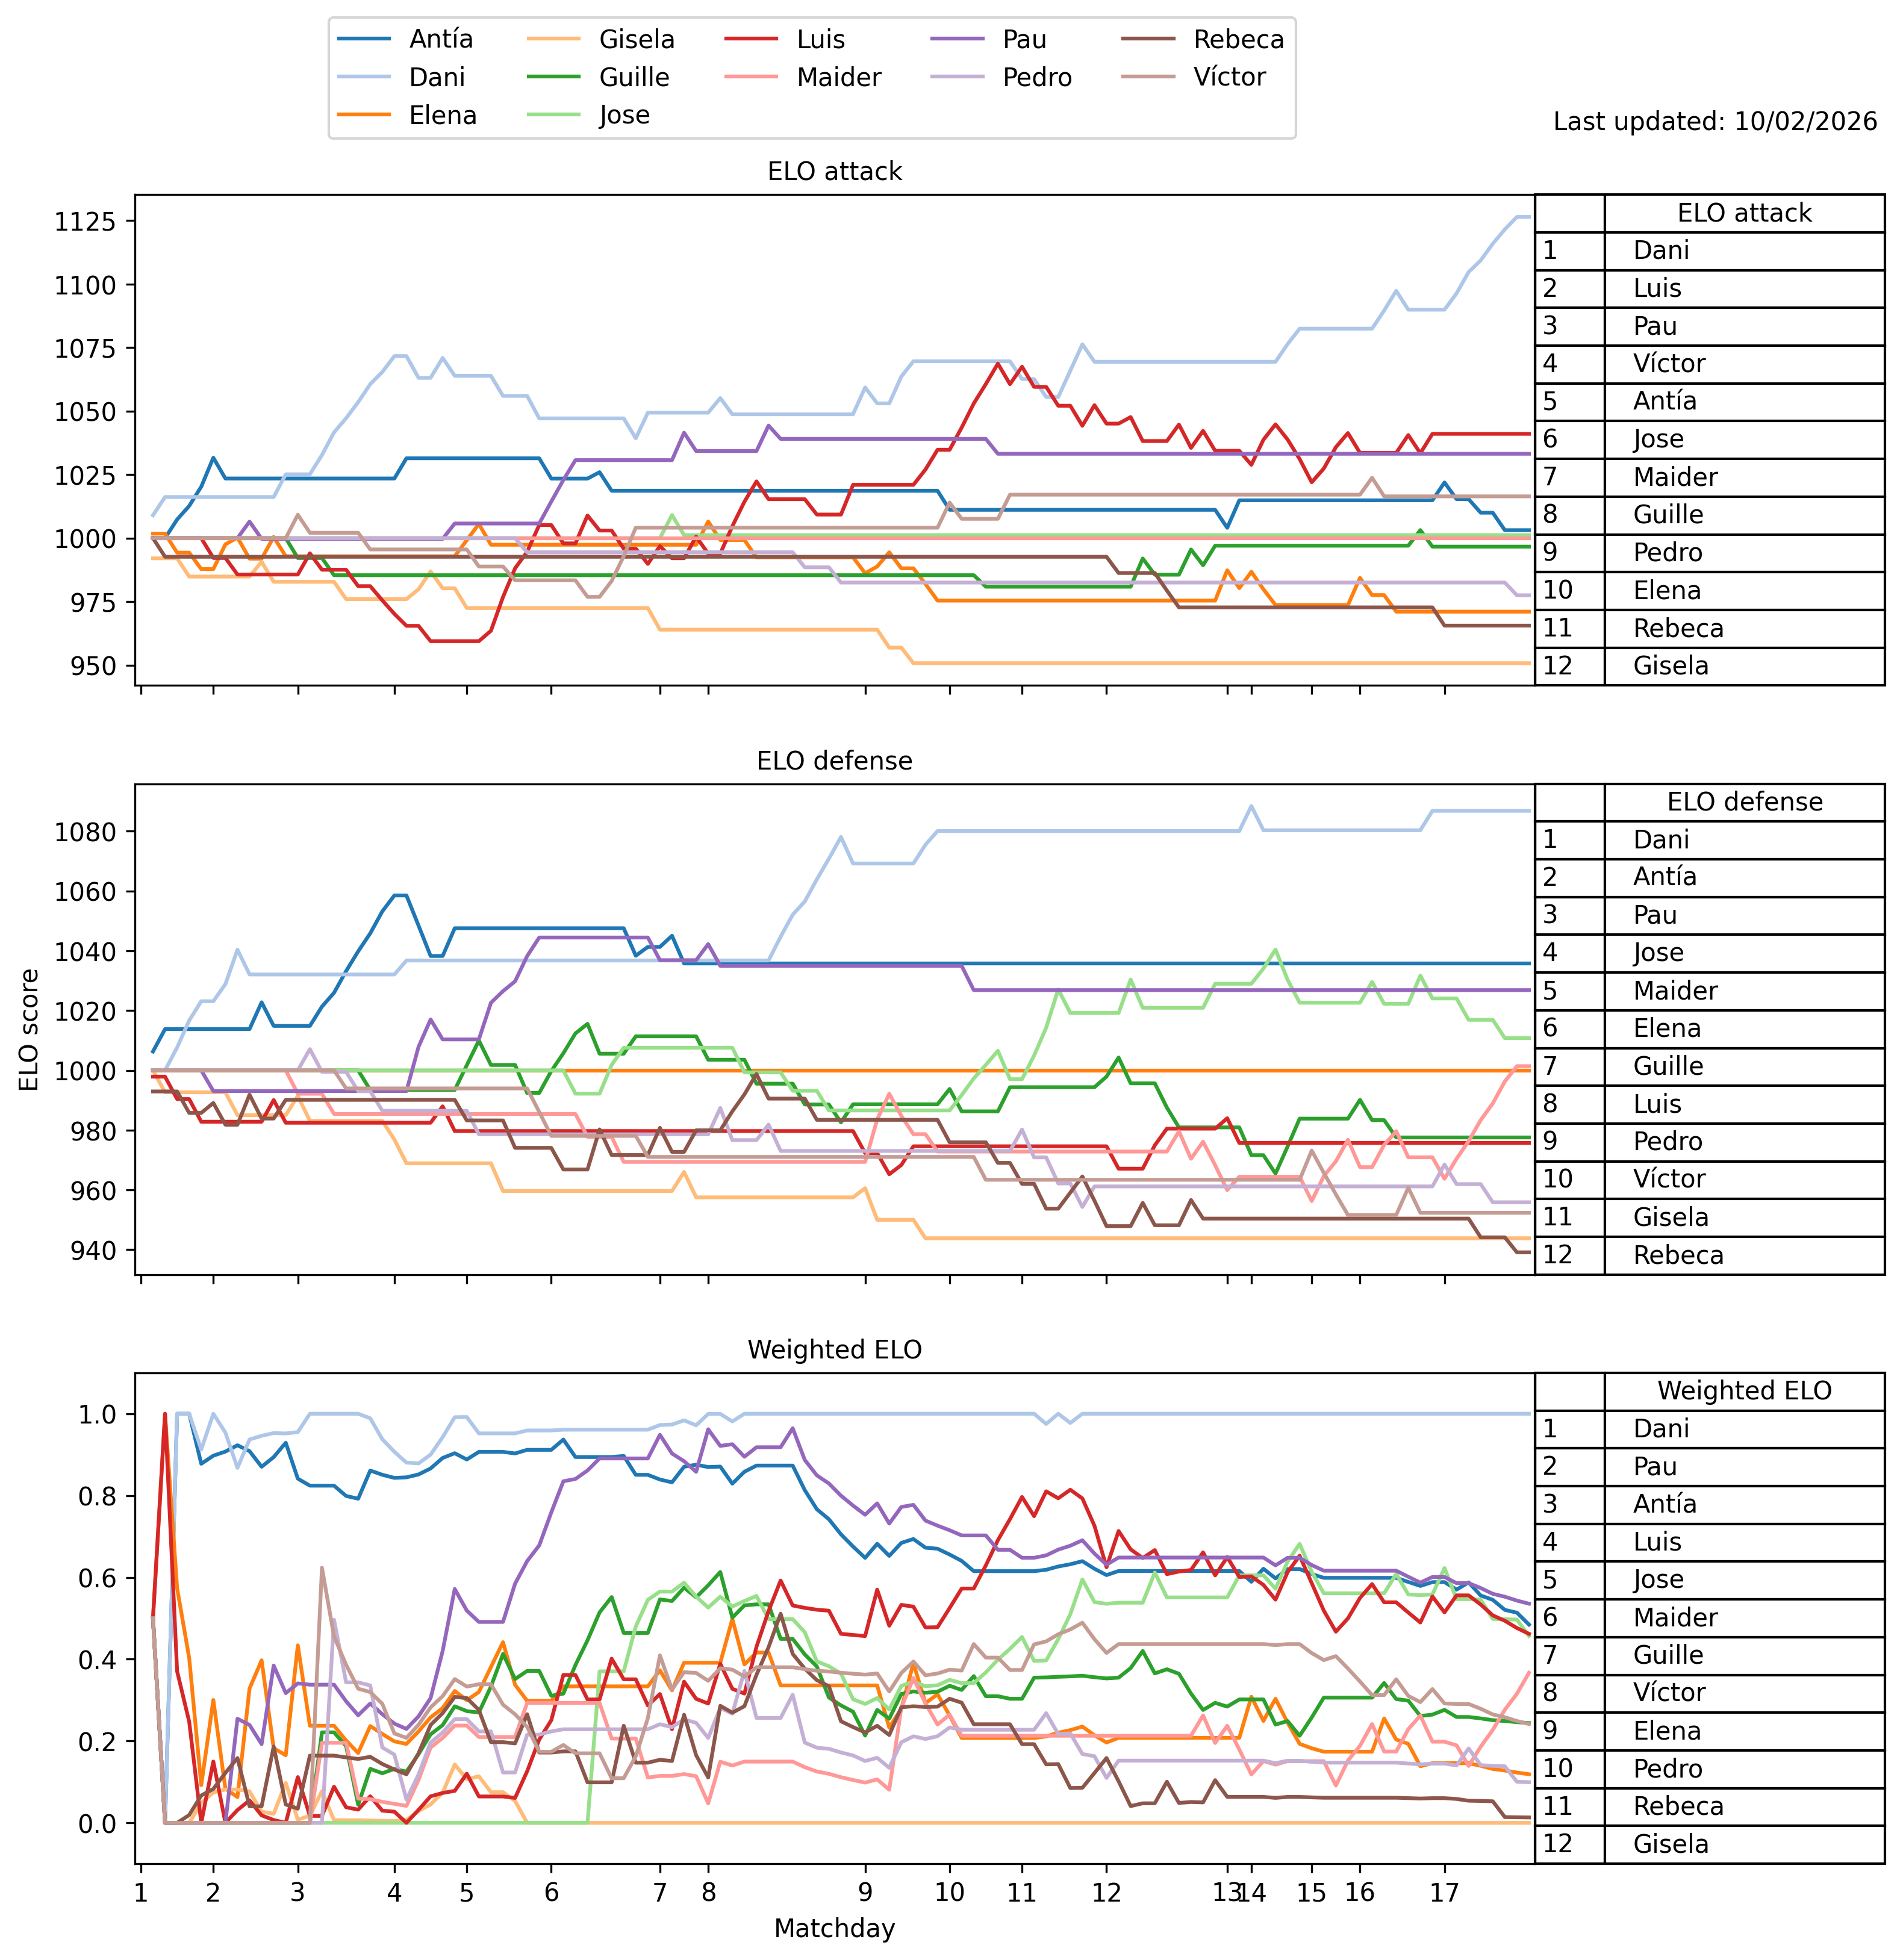
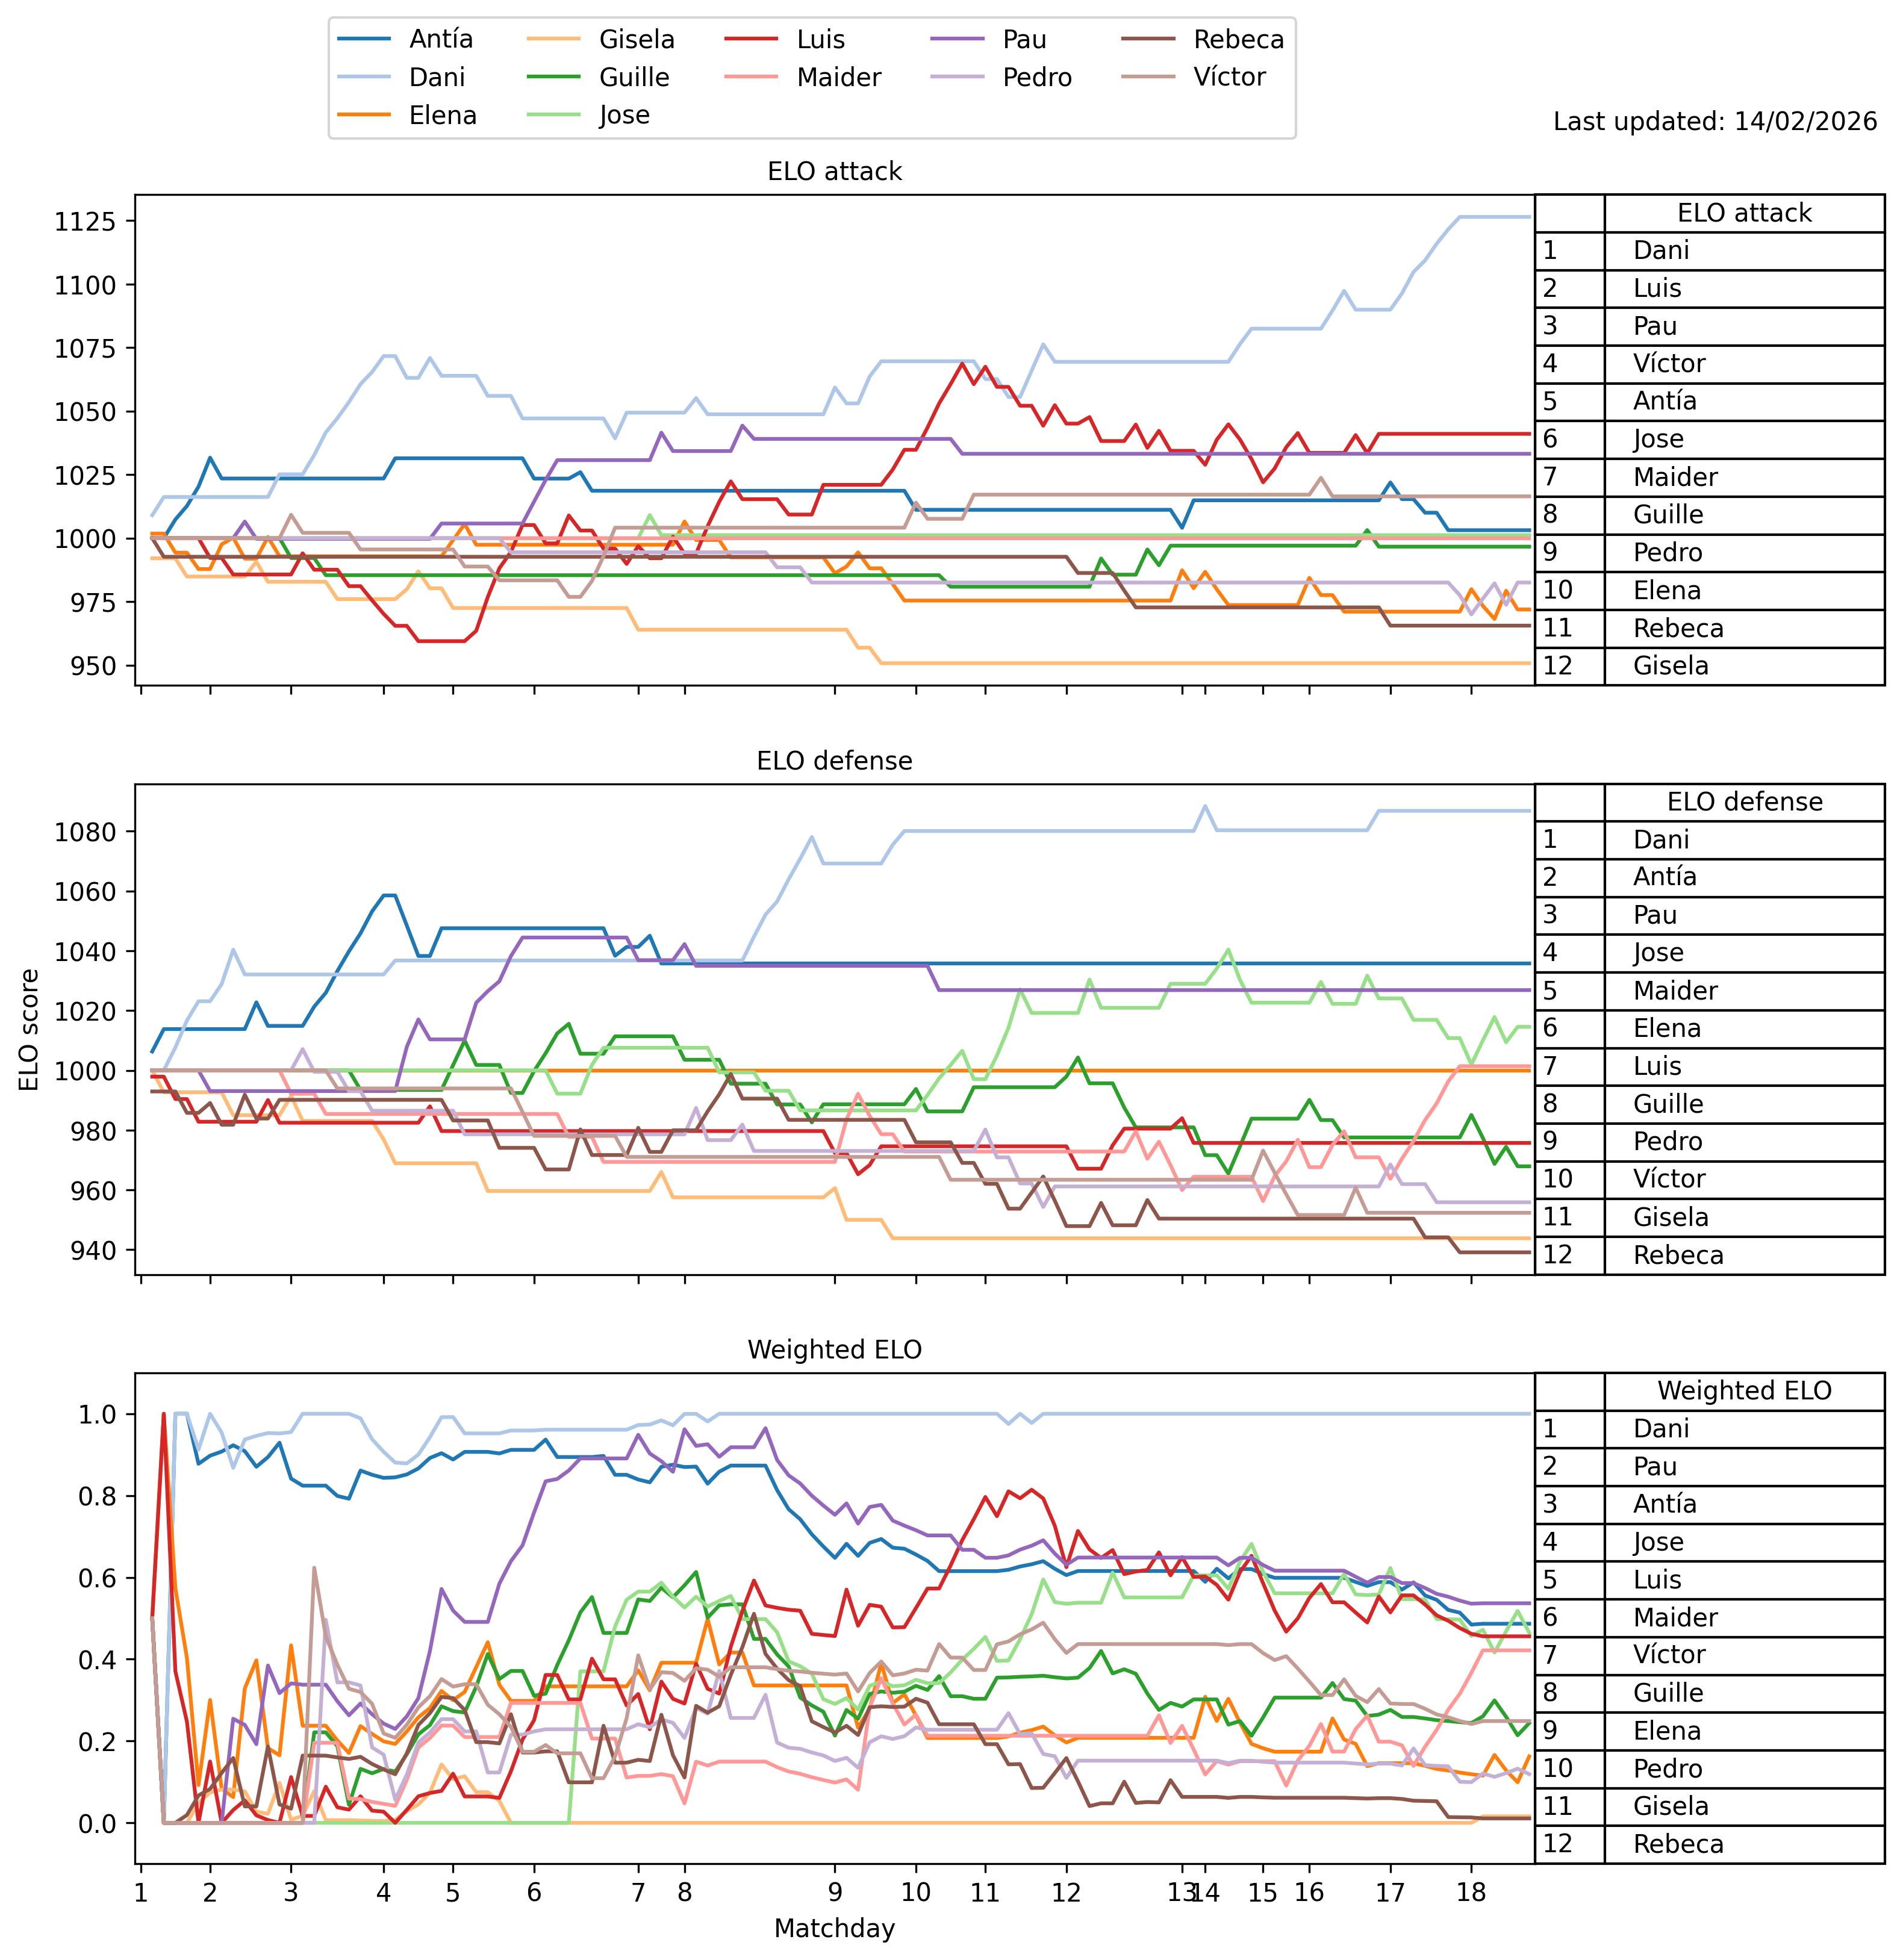
Updated to Matchday 18

diff --git a/results/winplayed_stats.html b/results/winplayed_stats.html
@@ -1,74 +1,74 @@
 <style type="text/css">
 </style>
-<table id="T_b47fa">
-  <caption>Games won / Games played (Matchday 115)</caption>
+<table id="T_42523">
+  <caption>Games won / Games played (Matchday 120)</caption>
   <thead>
     <tr>
       <th class="blank level0" >&nbsp;</th>
-      <th id="T_b47fa_level0_col0" class="col_heading level0 col0" >0</th>
-      <th id="T_b47fa_level0_col1" class="col_heading level0 col1" >1</th>
+      <th id="T_42523_level0_col0" class="col_heading level0 col0" >0</th>
+      <th id="T_42523_level0_col1" class="col_heading level0 col1" >1</th>
     </tr>
   </thead>
   <tbody>
     <tr>
-      <th id="T_b47fa_level0_row0" class="row_heading level0 row0" >1</th>
-      <td id="T_b47fa_row0_col0" class="data row0 col0" >Dani</td>
-      <td id="T_b47fa_row0_col1" class="data row0 col1" >0.76</td>
+      <th id="T_42523_level0_row0" class="row_heading level0 row0" >1</th>
+      <td id="T_42523_row0_col0" class="data row0 col0" >Dani</td>
+      <td id="T_42523_row0_col1" class="data row0 col1" >0.76</td>
     </tr>
     <tr>
-      <th id="T_b47fa_level0_row1" class="row_heading level0 row1" >2</th>
-      <td id="T_b47fa_row1_col0" class="data row1 col0" >Pau</td>
-      <td id="T_b47fa_row1_col1" class="data row1 col1" >0.62</td>
+      <th id="T_42523_level0_row1" class="row_heading level0 row1" >2</th>
+      <td id="T_42523_row1_col0" class="data row1 col0" >Pau</td>
+      <td id="T_42523_row1_col1" class="data row1 col1" >0.62</td>
     </tr>
     <tr>
-      <th id="T_b47fa_level0_row2" class="row_heading level0 row2" >3</th>
-      <td id="T_b47fa_row2_col0" class="data row2 col0" >Antía</td>
-      <td id="T_b47fa_row2_col1" class="data row2 col1" >0.62</td>
+      <th id="T_42523_level0_row2" class="row_heading level0 row2" >3</th>
+      <td id="T_42523_row2_col0" class="data row2 col0" >Antía</td>
+      <td id="T_42523_row2_col1" class="data row2 col1" >0.62</td>
     </tr>
     <tr>
-      <th id="T_b47fa_level0_row3" class="row_heading level0 row3" >4</th>
-      <td id="T_b47fa_row3_col0" class="data row3 col0" >Maider</td>
-      <td id="T_b47fa_row3_col1" class="data row3 col1" >0.53</td>
+      <th id="T_42523_level0_row3" class="row_heading level0 row3" >4</th>
+      <td id="T_42523_row3_col0" class="data row3 col0" >Jose</td>
+      <td id="T_42523_row3_col1" class="data row3 col1" >0.54</td>
     </tr>
     <tr>
-      <th id="T_b47fa_level0_row4" class="row_heading level0 row4" >5</th>
-      <td id="T_b47fa_row4_col0" class="data row4 col0" >Jose</td>
-      <td id="T_b47fa_row4_col1" class="data row4 col1" >0.53</td>
+      <th id="T_42523_level0_row4" class="row_heading level0 row4" >5</th>
+      <td id="T_42523_row4_col0" class="data row4 col0" >Maider</td>
+      <td id="T_42523_row4_col1" class="data row4 col1" >0.53</td>
     </tr>
     <tr>
-      <th id="T_b47fa_level0_row5" class="row_heading level0 row5" >6</th>
-      <td id="T_b47fa_row5_col0" class="data row5 col0" >Luis</td>
-      <td id="T_b47fa_row5_col1" class="data row5 col1" >0.5</td>
+      <th id="T_42523_level0_row5" class="row_heading level0 row5" >6</th>
+      <td id="T_42523_row5_col0" class="data row5 col0" >Luis</td>
+      <td id="T_42523_row5_col1" class="data row5 col1" >0.5</td>
     </tr>
     <tr>
-      <th id="T_b47fa_level0_row6" class="row_heading level0 row6" >7</th>
-      <td id="T_b47fa_row6_col0" class="data row6 col0" >Guille</td>
-      <td id="T_b47fa_row6_col1" class="data row6 col1" >0.46</td>
+      <th id="T_42523_level0_row6" class="row_heading level0 row6" >7</th>
+      <td id="T_42523_row6_col0" class="data row6 col0" >Guille</td>
+      <td id="T_42523_row6_col1" class="data row6 col1" >0.46</td>
     </tr>
     <tr>
-      <th id="T_b47fa_level0_row7" class="row_heading level0 row7" >8</th>
-      <td id="T_b47fa_row7_col0" class="data row7 col0" >Elena</td>
-      <td id="T_b47fa_row7_col1" class="data row7 col1" >0.41</td>
+      <th id="T_42523_level0_row7" class="row_heading level0 row7" >8</th>
+      <td id="T_42523_row7_col0" class="data row7 col0" >Elena</td>
+      <td id="T_42523_row7_col1" class="data row7 col1" >0.41</td>
     </tr>
     <tr>
-      <th id="T_b47fa_level0_row8" class="row_heading level0 row8" >9</th>
-      <td id="T_b47fa_row8_col0" class="data row8 col0" >Víctor</td>
-      <td id="T_b47fa_row8_col1" class="data row8 col1" >0.36</td>
+      <th id="T_42523_level0_row8" class="row_heading level0 row8" >9</th>
+      <td id="T_42523_row8_col0" class="data row8 col0" >Víctor</td>
+      <td id="T_42523_row8_col1" class="data row8 col1" >0.36</td>
     </tr>
     <tr>
-      <th id="T_b47fa_level0_row9" class="row_heading level0 row9" >10</th>
-      <td id="T_b47fa_row9_col0" class="data row9 col0" >Rebeca</td>
-      <td id="T_b47fa_row9_col1" class="data row9 col1" >0.33</td>
+      <th id="T_42523_level0_row9" class="row_heading level0 row9" >10</th>
+      <td id="T_42523_row9_col0" class="data row9 col0" >Pedro</td>
+      <td id="T_42523_row9_col1" class="data row9 col1" >0.35</td>
     </tr>
     <tr>
-      <th id="T_b47fa_level0_row10" class="row_heading level0 row10" >11</th>
-      <td id="T_b47fa_row10_col0" class="data row10 col0" >Pedro</td>
-      <td id="T_b47fa_row10_col1" class="data row10 col1" >0.29</td>
+      <th id="T_42523_level0_row10" class="row_heading level0 row10" >11</th>
+      <td id="T_42523_row10_col0" class="data row10 col0" >Rebeca</td>
+      <td id="T_42523_row10_col1" class="data row10 col1" >0.33</td>
     </tr>
     <tr>
-      <th id="T_b47fa_level0_row11" class="row_heading level0 row11" >12</th>
-      <td id="T_b47fa_row11_col0" class="data row11 col0" >Gisela</td>
-      <td id="T_b47fa_row11_col1" class="data row11 col1" >0.25</td>
+      <th id="T_42523_level0_row11" class="row_heading level0 row11" >12</th>
+      <td id="T_42523_row11_col0" class="data row11 col0" >Gisela</td>
+      <td id="T_42523_row11_col1" class="data row11 col1" >0.25</td>
     </tr>
   </tbody>
 </table>